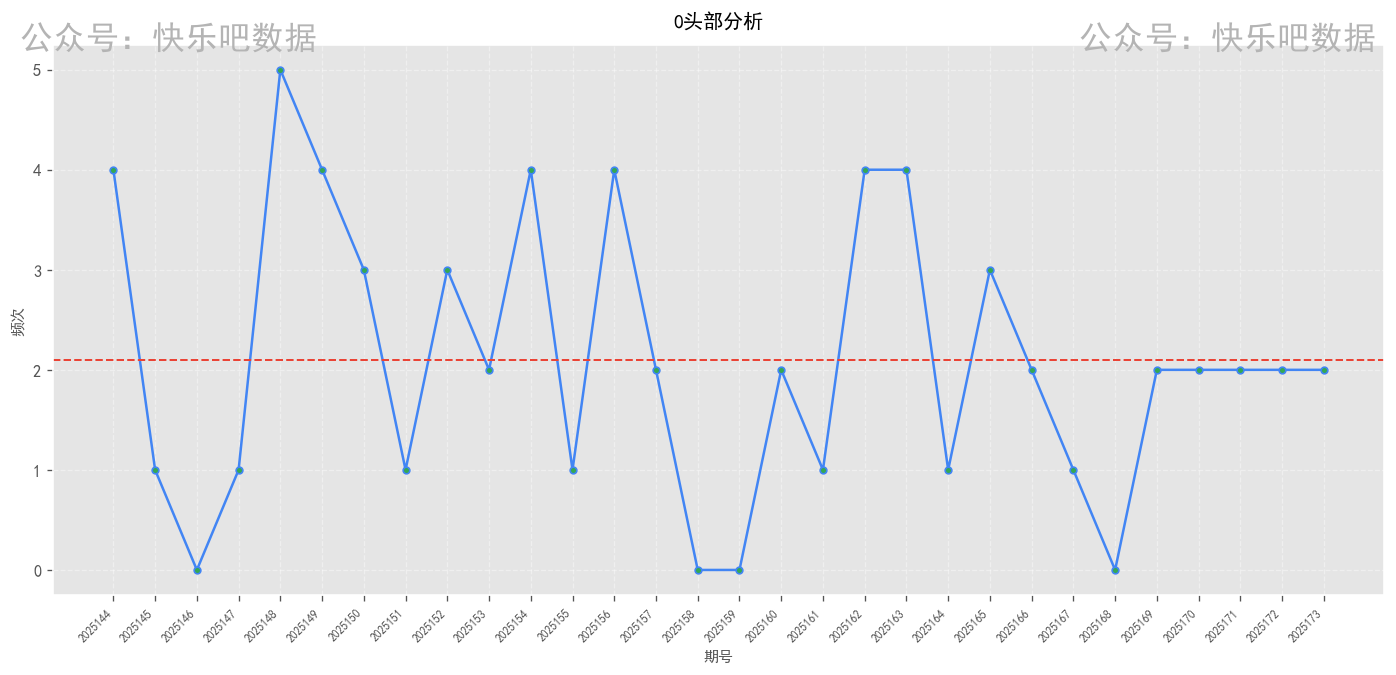
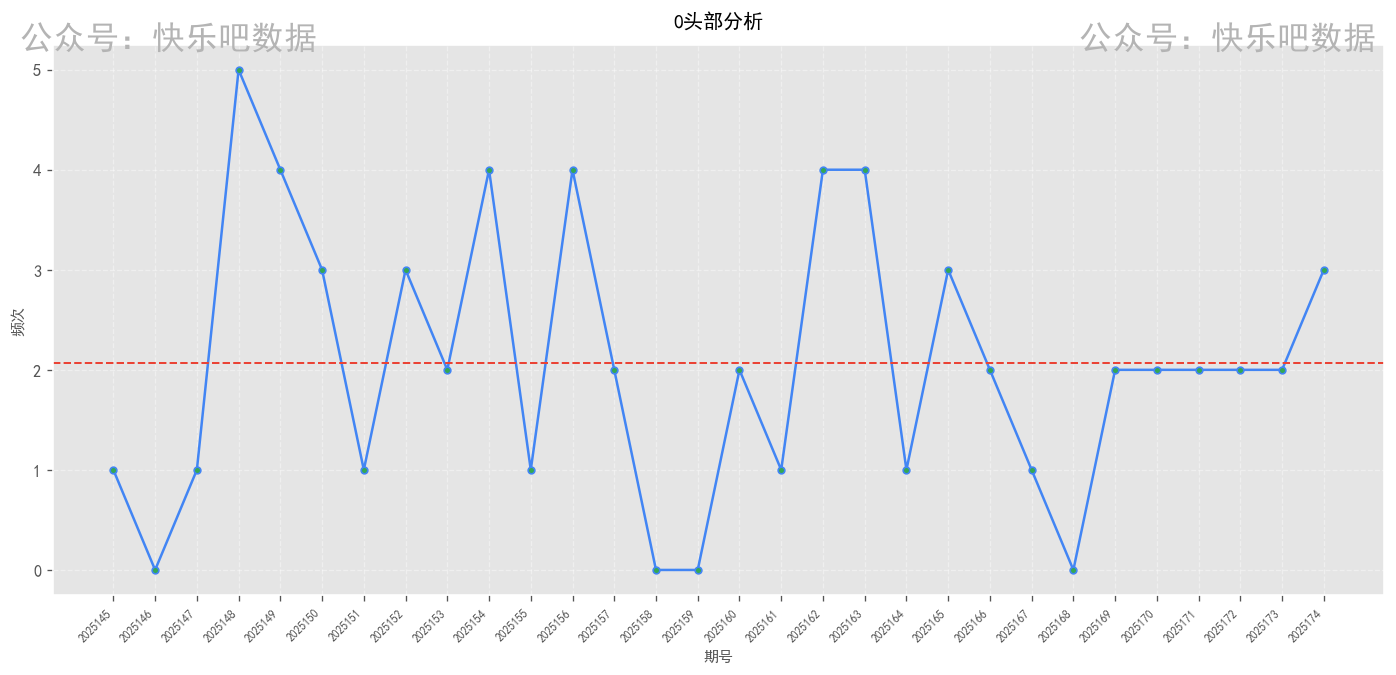
自动提交报告 20250703_2240

diff --git a/快乐8头号分析项目/数据报告/20250703/report.html b/快乐8头号分析项目/数据报告/20250703/report.html
@@ -440,7 +440,7 @@
                     <div class="label">头部区间</div>
                 </div>
                 <div class="overview-card">
-                    <div class="value">2025173</div>
+                    <div class="value">2025174</div>
                     <div class="label">最新期号</div>
                 </div>
                 <div class="overview-card">
@@ -464,11 +464,11 @@
             <div class="stats-summary">
                 <div class="stat-item">
                     <span class="stat-label">历史平均</span>
-                    <span class="stat-value">2.10</span>
+                    <span class="stat-value">2.07</span>
                 </div>
                 <div class="stat-item">
                     <span class="stat-label">近期平均</span>
-                    <span class="stat-value">2.00</span>
+                    <span class="stat-value">2.20</span>
                 </div>
                 <div class="stat-item">
                     <span class="stat-label">最高频次</span>
@@ -486,11 +486,11 @@
             <div class="stats-summary">
                 <div class="stat-item">
                     <span class="stat-label">历史平均</span>
-                    <span class="stat-value">2.47</span>
+                    <span class="stat-value">2.50</span>
                 </div>
                 <div class="stat-item">
                     <span class="stat-label">近期平均</span>
-                    <span class="stat-value">2.80</span>
+                    <span class="stat-value">2.60</span>
                 </div>
                 <div class="stat-item">
                     <span class="stat-label">最高频次</span>
@@ -508,11 +508,11 @@
             <div class="stats-summary">
                 <div class="stat-item">
                     <span class="stat-label">历史平均</span>
-                    <span class="stat-value">2.77</span>
+                    <span class="stat-value">2.67</span>
                 </div>
                 <div class="stat-item">
                     <span class="stat-label">近期平均</span>
-                    <span class="stat-value">2.60</span>
+                    <span class="stat-value">2.40</span>
                 </div>
                 <div class="stat-item">
                     <span class="stat-label">最高频次</span>
@@ -530,11 +530,11 @@
             <div class="stats-summary">
                 <div class="stat-item">
                     <span class="stat-label">历史平均</span>
-                    <span class="stat-value">2.70</span>
+                    <span class="stat-value">2.67</span>
                 </div>
                 <div class="stat-item">
                     <span class="stat-label">近期平均</span>
-                    <span class="stat-value">2.40</span>
+                    <span class="stat-value">2.60</span>
                 </div>
                 <div class="stat-item">
                     <span class="stat-label">最高频次</span>
@@ -552,7 +552,7 @@
             <div class="stats-summary">
                 <div class="stat-item">
                     <span class="stat-label">历史平均</span>
-                    <span class="stat-value">2.23</span>
+                    <span class="stat-value">2.33</span>
                 </div>
                 <div class="stat-item">
                     <span class="stat-label">近期平均</span>
@@ -574,11 +574,11 @@
             <div class="stats-summary">
                 <div class="stat-item">
                     <span class="stat-label">历史平均</span>
-                    <span class="stat-value">2.53</span>
+                    <span class="stat-value">2.43</span>
                 </div>
                 <div class="stat-item">
                     <span class="stat-label">近期平均</span>
-                    <span class="stat-value">2.80</span>
+                    <span class="stat-value">2.60</span>
                 </div>
                 <div class="stat-item">
                     <span class="stat-label">最高频次</span>
@@ -596,11 +596,11 @@
             <div class="stats-summary">
                 <div class="stat-item">
                     <span class="stat-label">历史平均</span>
-                    <span class="stat-value">2.50</span>
+                    <span class="stat-value">2.53</span>
                 </div>
                 <div class="stat-item">
                     <span class="stat-label">近期平均</span>
-                    <span class="stat-value">2.20</span>
+                    <span class="stat-value">2.60</span>
                 </div>
                 <div class="stat-item">
                     <span class="stat-label">最高频次</span>
@@ -618,7 +618,7 @@
             <div class="stats-summary">
                 <div class="stat-item">
                     <span class="stat-label">历史平均</span>
-                    <span class="stat-value">2.30</span>
+                    <span class="stat-value">2.40</span>
                 </div>
                 <div class="stat-item">
                     <span class="stat-label">近期平均</span>
@@ -644,7 +644,7 @@
                 </div>
                 <div class="stat-item">
                     <span class="stat-label">近期平均</span>
-                    <span class="stat-value">0.40</span>
+                    <span class="stat-value">0.20</span>
                 </div>
                 <div class="stat-item">
                     <span class="stat-label">最高频次</span>
@@ -668,7 +668,7 @@
         <div class="disclaimer">
             <div class="disclaimer-title"><i class="fas fa-exclamation-circle"></i> 法律声明</div>
             <p>本分析报告基于中国福利彩票官网公开数据制作，仅供历史数据分析与参考，严禁用于赌博或任何违法违规用途。</p>
-            <p>根据中国法律，禁止向未成年人传播彩票相关信息。数据统计周期: 2025144期-2025173期 | 生成时间: 2025-07-03 00:07</p>
+            <p>根据中国法律，禁止向未成年人传播彩票相关信息。数据统计周期: 2025145期-2025174期 | 生成时间: 2025-07-03 22:40</p>
         </div>
 
         <!-- 操作按钮 -->

diff --git a/index.html b/index.html
@@ -51,7 +51,7 @@
                 立即查看今日报告
             </a>
         </p>
-        <p>生成时间: 2025-07-03 00:07</p>
+        <p>生成时间: 2025-07-03 22:40</p>
     </div>
 
     <script>
